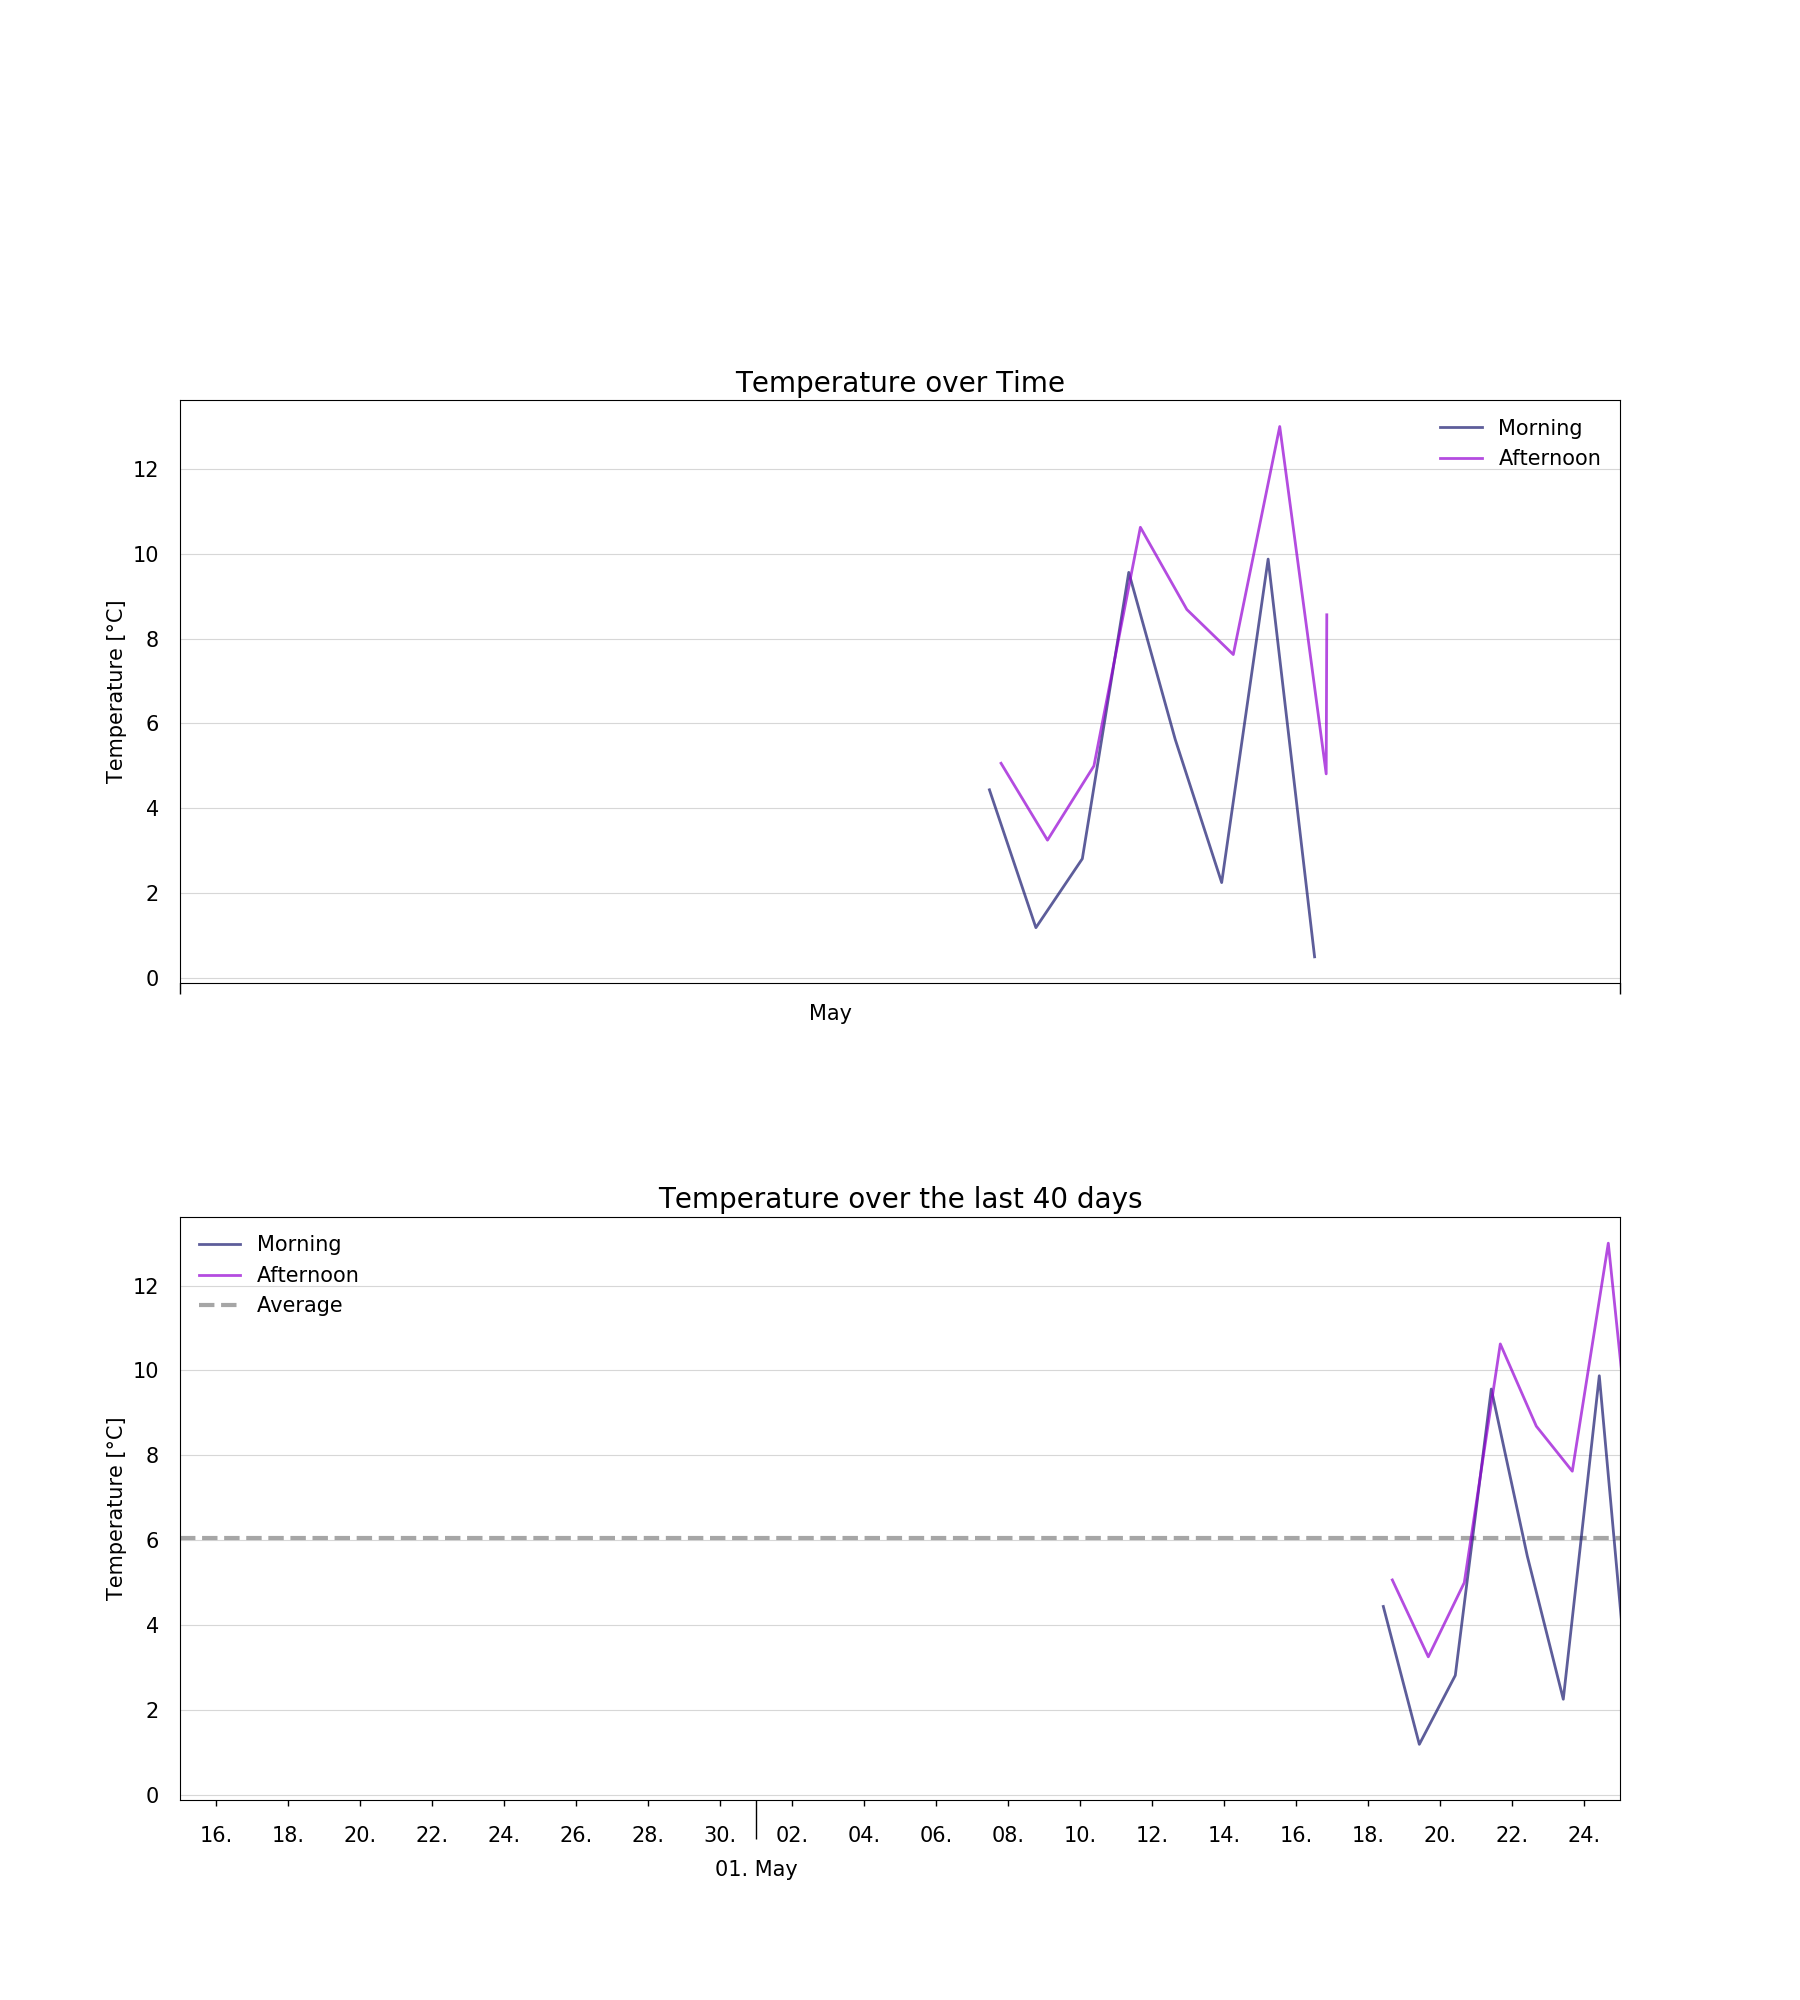
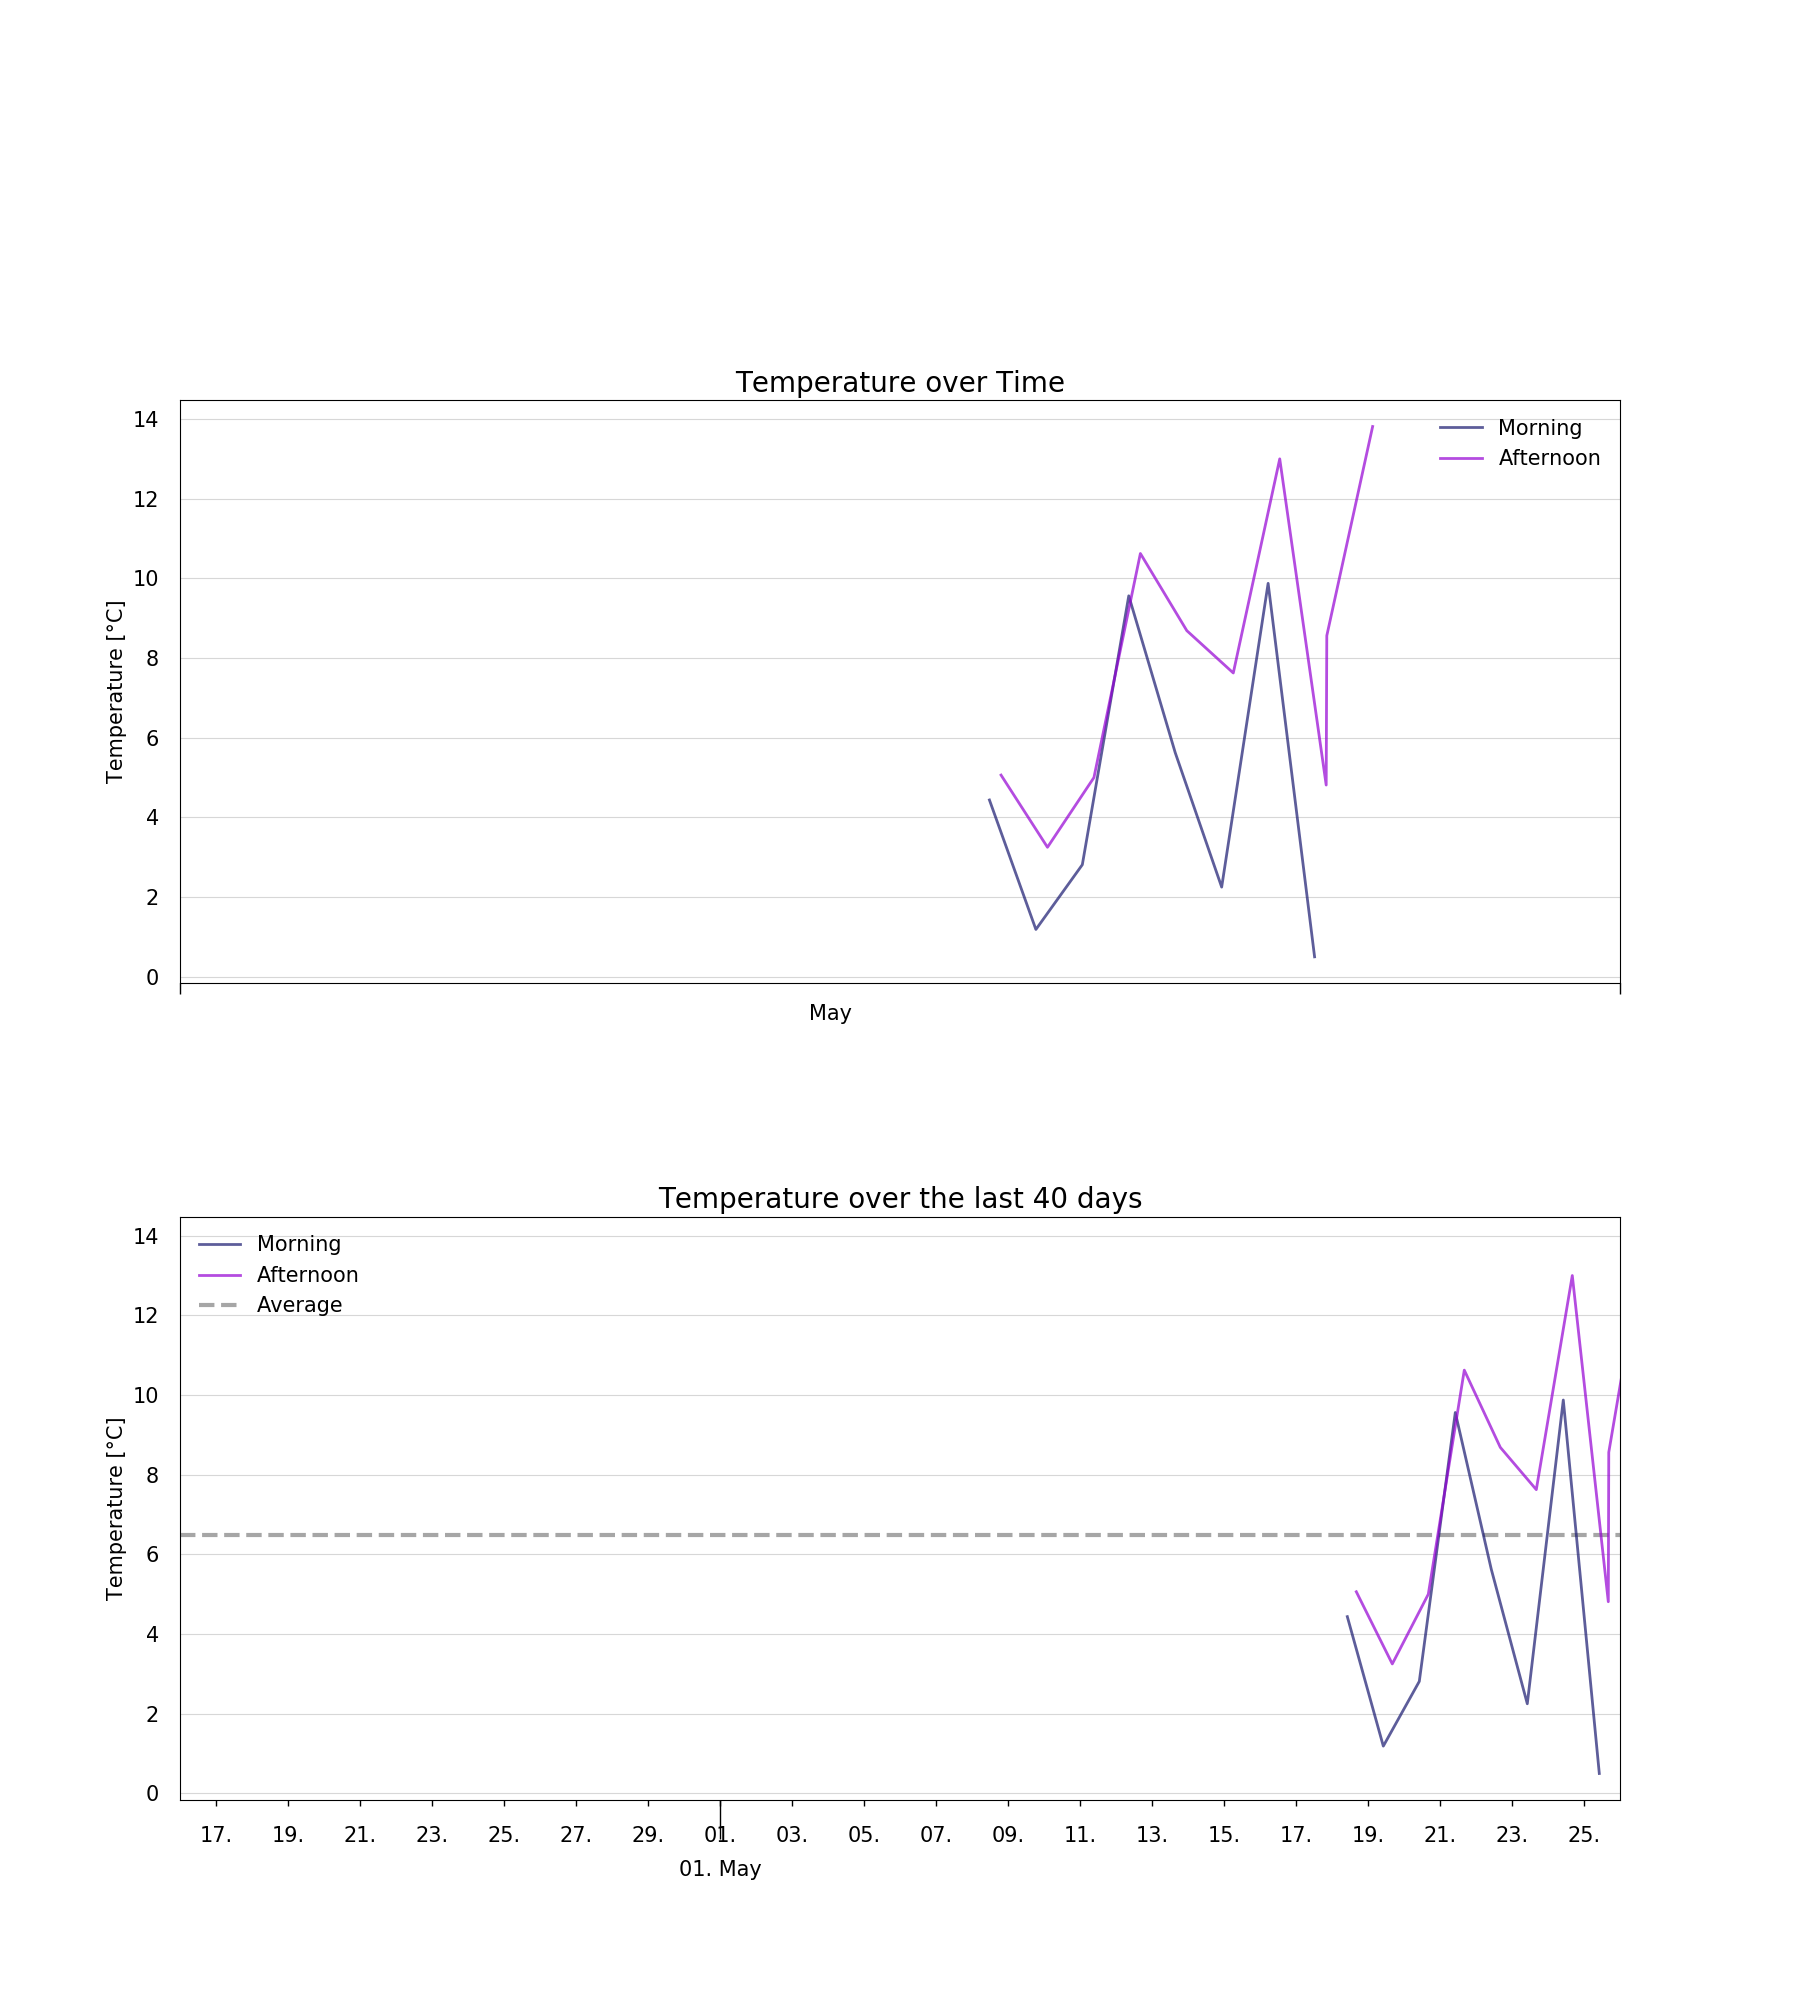
I'm a bot beep boop

diff --git a/resources/huette.md b/resources/huette.md
@@ -6,13 +6,13 @@ image: '/assets/img/'
 description: 'Live image from the Austrian alps'
 twitter_text: ' '
 ---
-## Latest image from 25 May 2021 at 16:31
+## Latest image from 26 May 2021 at 16:12
 <div class="huette">
   <div class="huette-image">
     <img src="{{ "/assets/img/huette.jpg" | prepend: site.baseurl }}">
   </div>
   <div class="huette-text">
-        <h2>Current Temperature: 8.562°C</h2>
+        <h2>Current Temperature: 13.812°C</h2>
         <p>A solar powered raspberry pi left alone in the wild is sending daily images and temperature data to this website. It should give you an impression about the current weather in the "Brixental".</p>
 
   </div>

diff --git a/rpi-script/huette.md b/rpi-script/huette.md
@@ -6,13 +6,13 @@ image: '/assets/img/'
 description: 'Live image from the Austrian alps'
 twitter_text: ' '
 ---
-## Latest image from 25 May 2021 at 16:31
+## Latest image from 26 May 2021 at 16:12
 <div class="huette">
   <div class="huette-image">
     <img src="{{ "/assets/img/huette.jpg" | prepend: site.baseurl }}">
   </div>
   <div class="huette-text">
-        <h2>Current Temperature: 8.562°C</h2>
+        <h2>Current Temperature: 13.812°C</h2>
         <p>A solar powered raspberry pi left alone in the wild is sending daily images and temperature data to this website. It should give you an impression about the current weather in the "Brixental".</p>
 
   </div>
